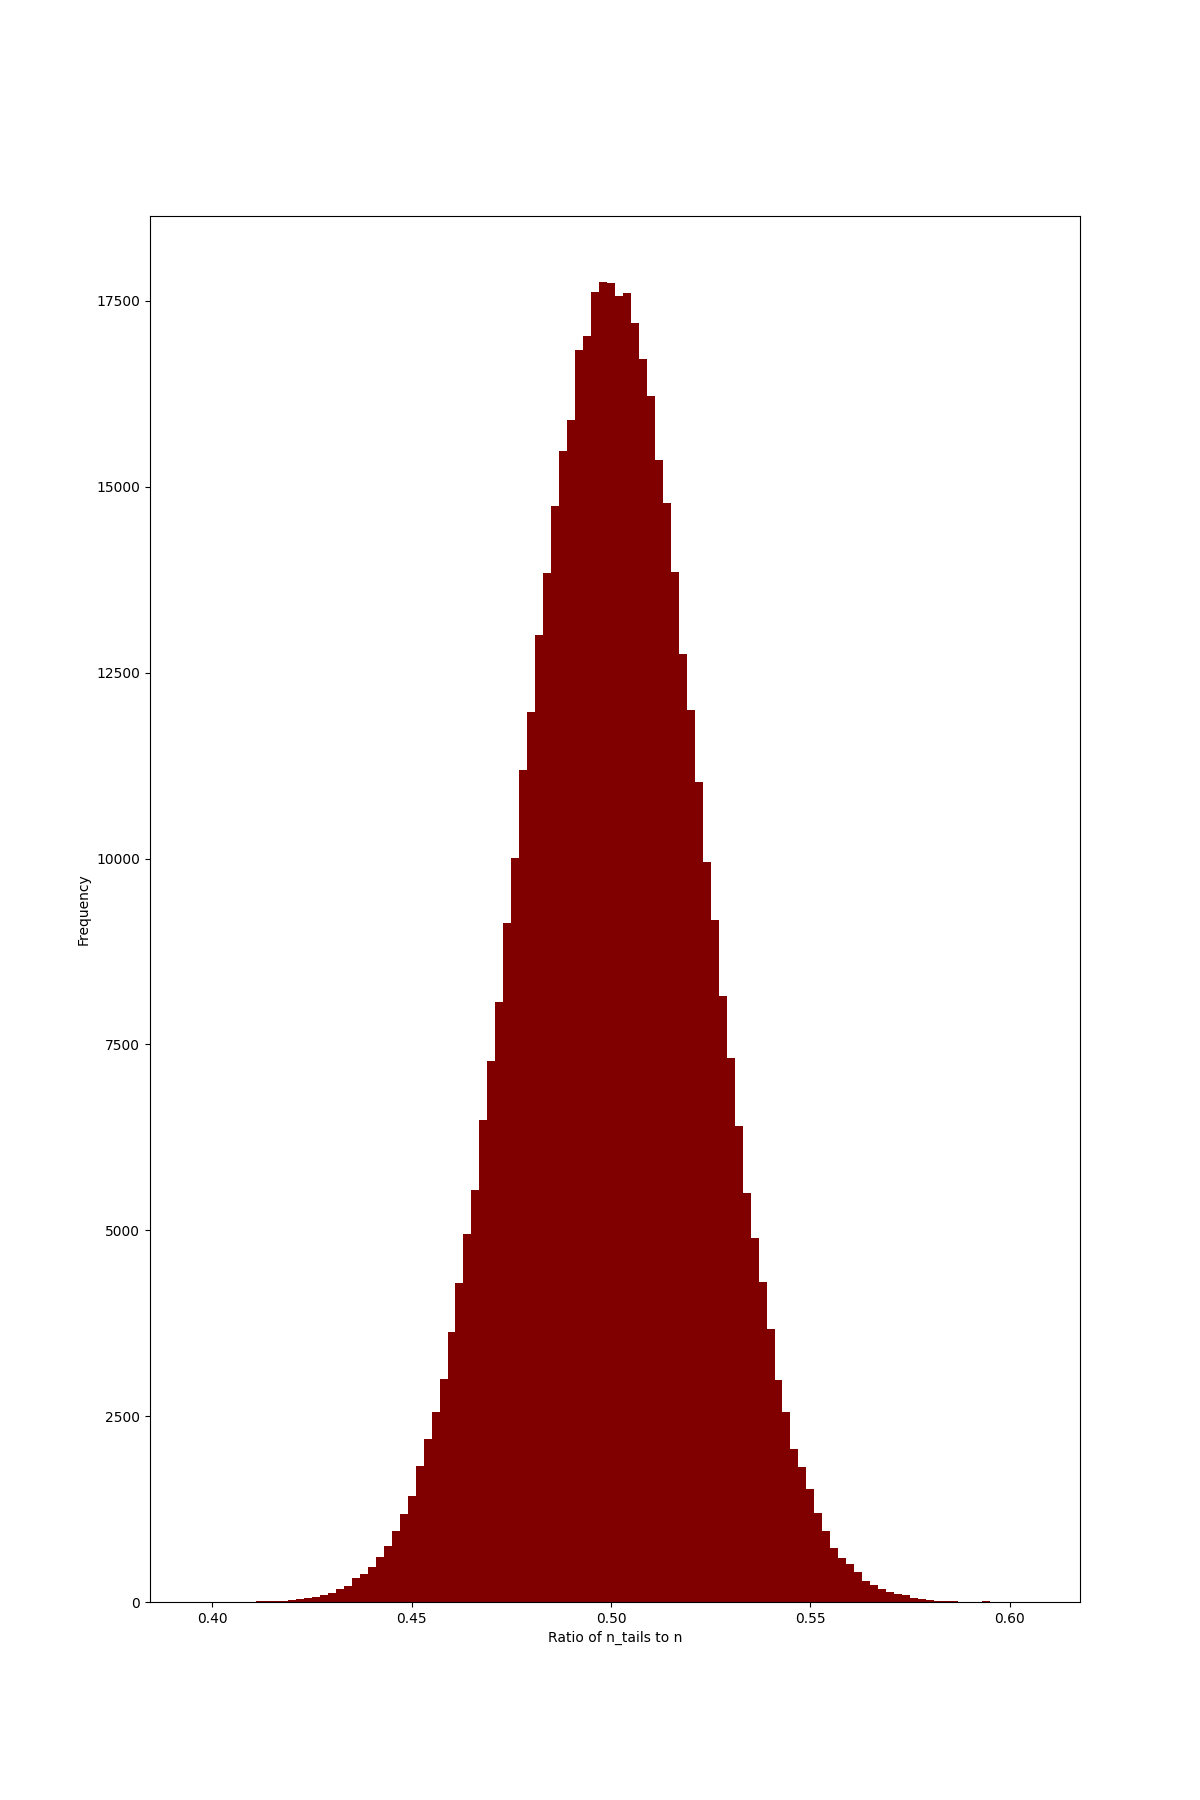
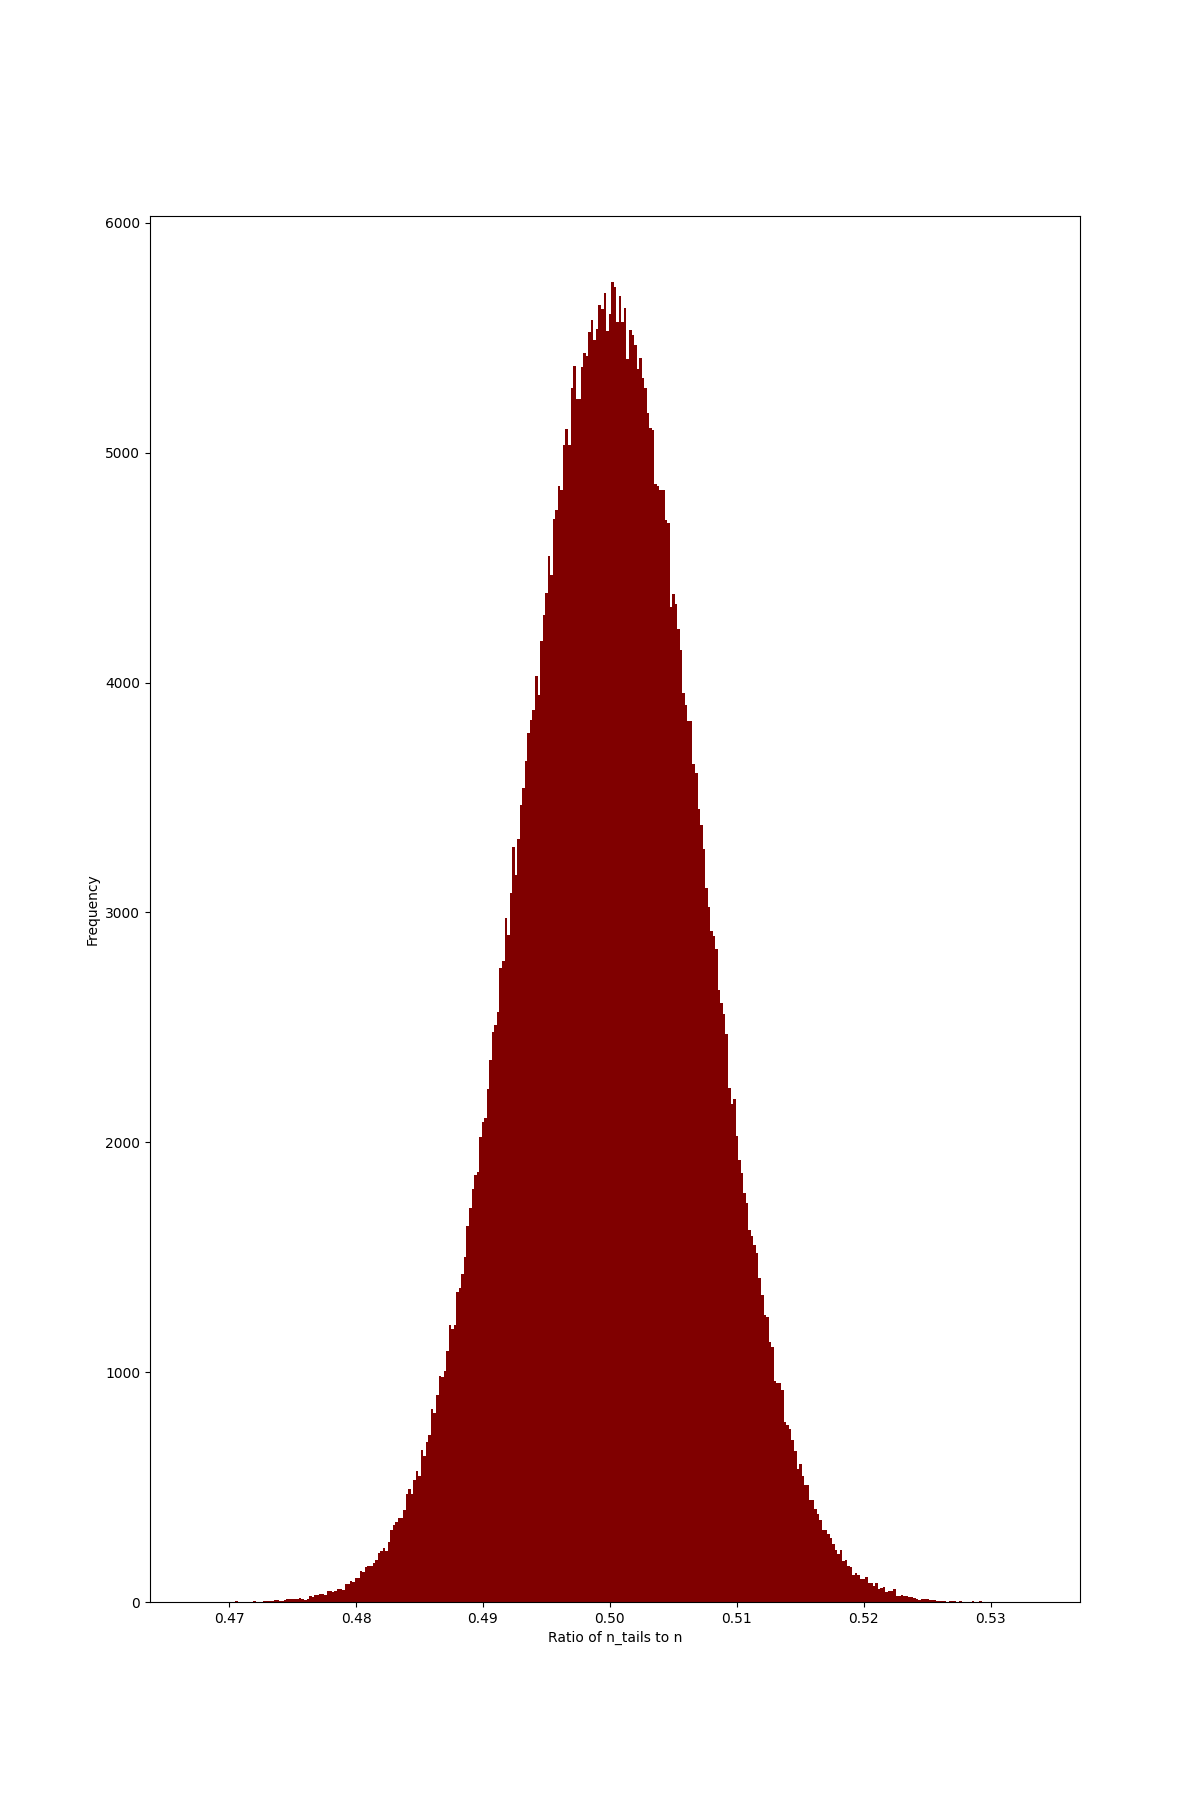
Added Runge Kutta and FwdEuler

diff --git a/Numerical Solutions of DE/Modified Forward Euler/main.js b/Numerical Solutions of DE/Modified Forward Euler/main.js
@@ -1,0 +1,33 @@
+const f_1 = (x, y) => {
+    return 2 * x + y;
+};
+
+const modFEM = (f, h, a, b, y_a) => {
+    const n = (b - a) / h;
+
+    results = Array(n).fill(0);
+    results[0] = y_a;
+
+    for (let i = 1; i < n; i++) {
+        results[i] = results[i - 1] + h * f(a + (i - 1) * h, results[i - 1]);
+        temp =
+            results[i - 1] +
+            (h / 2) *
+                (f(a + (i - 1) * h, results[i - 1]) + f(a + i * h, results[i]));
+
+        while (Math.abs(temp - results[i]) > 10e-5) {
+            results[i] = temp;
+            temp =
+                results[i - 1] +
+                (h / 2) *
+                    (f(a + (i - 1) * h, results[i - 1]) +
+                        f(a + i * h, results[i]));
+        }
+
+        results[i] = Math.round(results[i] * 10e4) / 10e4;
+    }
+
+    return results;
+};
+
+console.log(modFEM(f_1, 0.2, 0, 1, 1));

diff --git a/Numerical Solutions of DE/Modified Forward Euler/main.py b/Numerical Solutions of DE/Modified Forward Euler/main.py
@@ -1,0 +1,47 @@
+def f_1(x: float, y: float) -> float:
+    """
+    Function f_1: Defines a simple mathematical function 2x + y and returns the result.
+    Parameters:
+        x (float): The input value for variable x.
+        y (float): The input value for variable y.
+    Returns:
+        float: The result of the function 2x + y.
+    """
+    return 2 * x + y
+
+
+def modFEM(f: callable, h: float, a: float, b: float, y_a: float):
+    """
+    Function modFEM: Implements the modified forward Euler method for solving a first-order ordinary differential equation (ODE).
+    Parameters:
+        f (callable): The function representing the first-order ODE dy/dx = f(x, y).
+        h (float): The step size for discretizing the interval [a, b].
+        a (float): The initial value of x.
+        b (float): The final value of x.
+        y_a (float): The initial value of y at x = a.
+    Returns:
+        list[float]: A list containing the approximate values of y for each step of the Modified Euler method.
+    """
+
+    n = int((b - a) / h)
+
+    results = [0.0 for _ in range(n)]
+    results[0] = y_a
+
+    for i in range(1, n):
+        results[i] = results[i - 1] + h * f(a + (i - 1) * h, results[i - 1])
+        temp = results[i - 1] + (h / 2) * (
+            f(a + (i - 1) * h, results[i - 1]) + f(a + i * h, results[i])
+        )
+        while abs(results[i] - temp) > 10e-5:
+            results[i] = temp
+            temp = results[i - 1] + (h / 2) * (
+                f(a + (i - 1) * h, results[i - 1]) + f(a + i * h, results[i])
+            )
+
+        results[i] = round(results[i], 5)
+
+    return results
+
+
+print(modFEM(f_1, 0.2, 0, 1, 1))

diff --git a/Numerical Solutions of DE/Runge-Kutta Method/main.py b/Numerical Solutions of DE/Runge-Kutta Method/main.py
@@ -1,0 +1,34 @@
+def f_1(x: float, y: float) -> float:
+    return -2 * x * y**2
+
+
+def f_2(x: float, y: float) -> float:
+    return x**2 + y**2
+
+
+def rungeKuttaMethod(f: callable, a: float, y_a: float, h: float, order: int) -> float:
+    coefficients_dict = {2: [0, 1], 4: [0, 1 / 2, 1 / 2, 1]}
+
+    coefficients_k_dict = {2: [1 / 2, 1 / 2], 4: [1 / 6, 1 / 3, 1 / 3, 1 / 6]}
+
+    coefficients = coefficients_dict.get(order)
+    coefficients_k = coefficients_k_dict.get(order)
+
+    k_i = [None] * 4
+
+    k_i[0] = f(a, y_a)
+    for i in range(1, order):
+        k_i[i] = f(a + coefficients[i] * h, y_a + coefficients[i] * k_i[i - 1] * h)
+
+    result = y_a
+
+    for i in range(order):
+        result += h * coefficients_k[i] * k_i[i]
+    return result
+
+
+print(rungeKuttaMethod(f_1, 0, 1, 0.2, 4))
+print(rungeKuttaMethod(f_2, 1, 1.2, 0.05, 4))
+
+print(rungeKuttaMethod(f_1, 0, 1, 0.2, 2))
+print(rungeKuttaMethod(f_2, 1, 1.2, 0.05, 2))

diff --git a/Probability and Statistics/Coin Toss Simulation/main.py b/Probability and Statistics/Coin Toss Simulation/main.py
@@ -47,7 +47,7 @@ def draw_curve(results: dict, n_coins: int, p_tail: int = 0.5):
 
 
 n_rounds = 500000
-n_coins = 500
+n_coins = 5000
 results = simulate(n_rounds, n_coins, 0.7)
 draw_curve(results, n_coins, 0.7)
 results = simulate(n_rounds, n_coins)

diff --git a/Numerical Solutions of DE/Modified Forward Euler/readme.md b/Numerical Solutions of DE/Modified Forward Euler/readme.md
@@ -1,0 +1,59 @@
+# Modified Forward Euler Method for Solving Ordinary Differential Equations (ODEs)
+
+The **Modified Forward Euler Method** is a numerical technique used to approximate the solution of a first-order ordinary differential equation (ODE) of the form dy/dx = f(x, y). This method improves the accuracy of the standard forward Euler method by performing an iterative correction.
+
+## Function Definitions
+
+### Function `f_1(x: float, y: float) -> float`
+
+This function defines a simple mathematical function 2x + y and returns the result. It takes two input parameters x and y, and returns the computed value of the function 2x + y.
+
+### Function `modFEM(f: callable, h: float, a: float, b: float, y_a: float) -> list[float]`
+
+The `modFEM` function implements the Modified Forward Euler Method for solving a first-order ODE dy/dx = f(x, y).
+
+Parameters:
+
+- `f (callable)`: The function representing the first-order ODE dy/dx = f(x, y).
+- `h (float)`: The step size for discretizing the interval [a, b].
+- `a (float)`: The initial value of x.
+- `b (float)`: The final value of x.
+- `y_a (float)`: The initial value of y at x = a.
+
+Returns:
+
+- `list[float]`: A list containing the approximate values of y for each step of the Modified Euler method.
+
+## Algorithm Overview
+
+1. The algorithm calculates the number of steps `n` based on the provided step size and interval.
+2. An array `results` is initialized to store the approximate values of y.
+3. The initial value of y is assigned to the first element of the `results` array.
+4. For each step from 1 to `n-1`, the algorithm performs the following:
+   - It calculates the next approximate value of y using the standard Forward Euler formula.
+   - It performs an iterative correction to refine the approximation. The while loop iteratively updates the value of y until the difference between the current and previous approximations is within a specified tolerance (10e-5).
+   - The final refined approximation is rounded to five decimal places.
+5. The algorithm returns the list of approximate values of y.
+
+## Example and Explanation
+
+```python
+def f_1(x: float, y: float) -> float:
+    return 2 * x + y
+
+# Using the modFEM function to solve the ODE dy/dx = 2x + y with the Modified Forward Euler Method.
+approximate_values = modFEM(f_1, 0.2, 0, 1, 1)
+print(approximate_values)
+```
+
+Output:
+
+```bash
+[1.0, 1.24, 1.44968, 1.73854, 2.11867, 2.60369]
+```
+
+In this example, the `modFEM` function is used to approximate the solution of the ODE dy/dx = 2x + y over the interval [0, 1] with a step size of 0.2. The function returns a list of approximate values of y at each step, demonstrating the accuracy improvement achieved by the Modified Forward Euler Method compared to the standard Forward Euler Method.
+
+## Conclusion
+
+The Modified Forward Euler Method is a valuable numerical technique for approximating solutions to first-order ordinary differential equations. It enhances the accuracy of the standard Forward Euler Method by iteratively refining the approximation at each step. This method is particularly useful for solving ODEs in various scientific and engineering applications.

diff --git a/Numerical Solutions of DE/Runge-Kutta Method/readme.md b/Numerical Solutions of DE/Runge-Kutta Method/readme.md
@@ -1,0 +1,44 @@
+# Runge-Kutta Method - Explanation and Implementation
+
+The **Runge-Kutta method** is a numerical technique for solving ordinary differential equations (ODEs) numerically. It's particularly useful for solving ODEs that can't be solved analytically. The method approximates the solution by breaking down the interval into smaller steps and computing the change in the dependent variable over each step.
+
+## Key Concepts
+
+Before diving into the implementation, let's understand the key concepts involved:
+
+1. **Ordinary Differential Equation (ODE)**: An equation that relates a function with its derivatives. It describes how a variable changes with respect to another variable.
+2. **Initial Value Problem (IVP)**: Given an initial value for the function, find its values at various points using the ODE.
+3. **Step Size (h)**: The interval at which the solution is computed.
+4. **Order of the Method**: Determines the accuracy of the approximation.
+
+## Implementation Explanation
+
+### Function Definitions
+
+The provided implementation includes two functions (`f_1` and `f_2`) representing the differential equations to be solved. They take `x` and `y` as inputs and return the corresponding values based on the equations.
+
+### `rungeKuttaMethod` Function
+
+The `rungeKuttaMethod` function takes the following inputs:
+
+- `f`: The callable representing the differential equation.
+- `a`: The initial value of the independent variable.
+- `y_a`: The initial value of the dependent variable at `a`.
+- `h`: The step size.
+- `order`: The order of the Runge-Kutta method.
+
+The function then uses the Runge-Kutta method to approximate the value of the dependent variable at a specific point. Here's how it works:
+
+1. It defines the coefficients and coefficients for `k_i` based on the chosen order.
+2. Calculates `k_i` values using the provided differential equation and coefficients.
+3. Computes the result by combining the weighted `k_i` values.
+
+The function returns the approximation of the dependent variable at the specified point.
+
+### Example
+
+For instance, consider the equation `dy/dx = -2xy^2` with the initial condition `y(0) = 1`. By using the Runge-Kutta method with an order of 4 and a step size of 0.2, the function approximates the value of `y` at `x = 0.2`.
+
+### Conclusion
+
+The Runge-Kutta method is a widely used technique for numerically solving ordinary differential equations. It provides a way to approximate the behavior of complex systems that can't be solved analytically. The implementation in the provided code follows the core principles of Runge-Kutta's algorithm: breaking down the problem into steps, evaluating functions at specific points, and combining these evaluations to approximate the solution. The method can be applied to various types of differential equations, making it an essential tool in scientific and engineering fields.
